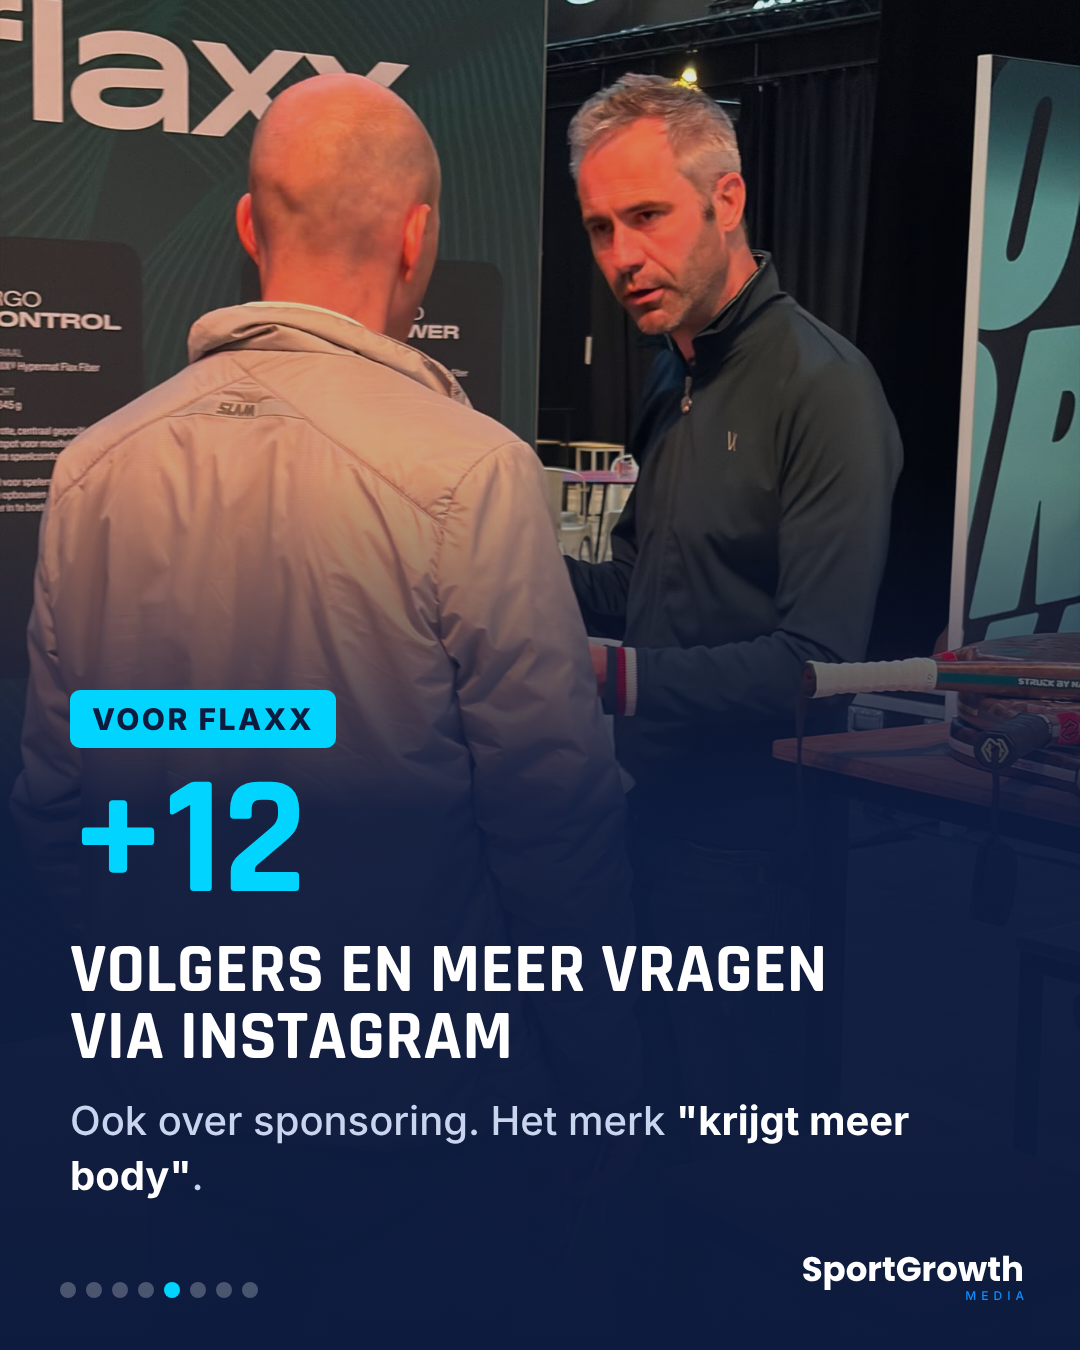
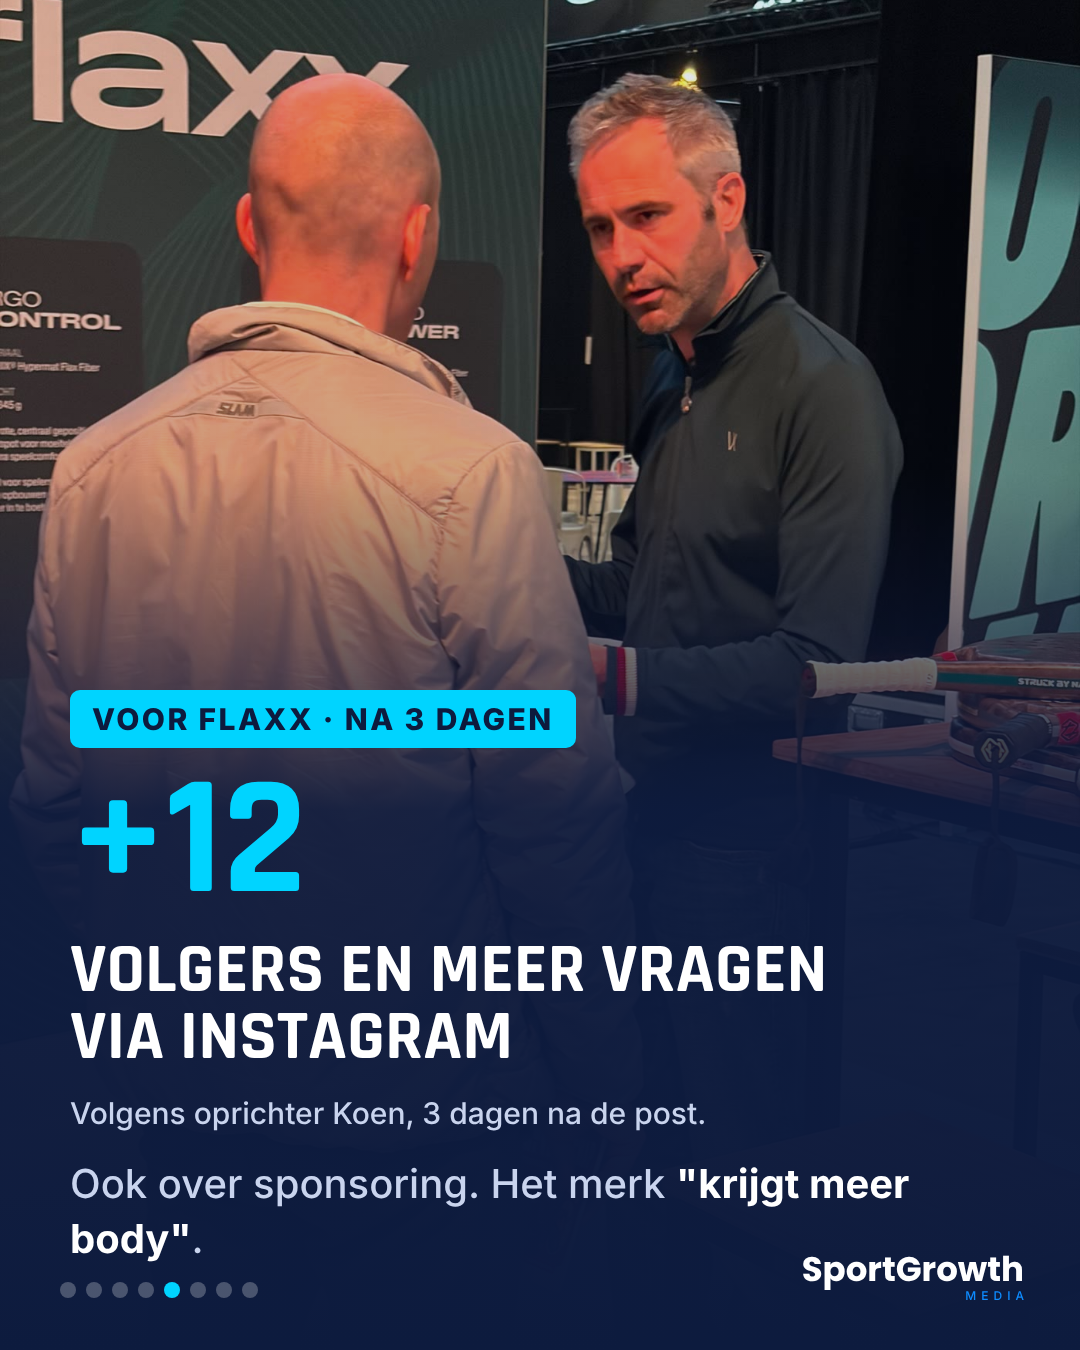
Carrousel FLAXX: +12 volgers gedateerd (na 3 dagen)
Claude-Session: https://claude.ai/code/session_01QkSWZzWLTduRQtPp2zathG

Changed region(s): [[0.0611, 0.8089, 0.8556, 0.9333], [0.3056, 0.4978, 0.55, 0.56]]

diff --git a/instagram/carrousel-flaxx/build.js b/instagram/carrousel-flaxx/build.js
@@ -80,9 +80,10 @@ S.push(page(5, `
 <div class="bg" style="background-image:${img('koen-in-gesprek-bezoeker.jpg')};background-size:1080px auto;background-position:center 20%"></div>
 <div class="dim" style="background:linear-gradient(180deg,rgba(13,27,62,.1) 0%,rgba(13,27,62,.2) 35%,rgba(13,27,62,.95) 60%,#0d1b3e 100%)"></div>
 <div class="col" style="top:690px;gap:22px">
-<span class="tag">VOOR FLAXX</span>
+<span class="tag">VOOR FLAXX · NA 3 DAGEN</span>
 <div style="font:700 170px/.85 Rj;color:#00d4ff">+12</div>
 <h2 style="font-size:70px">volgers en meer vragen<br>via Instagram</h2>
+<p class="t" style="font-size:30px">Volgens oprichter Koen, 3 dagen na de post.</p>
 <p class="t">Ook over sponsoring. Het merk <b>"krijgt meer body"</b>.</p>
 </div>`));
 // 6 WAAROM HET WERKTE
